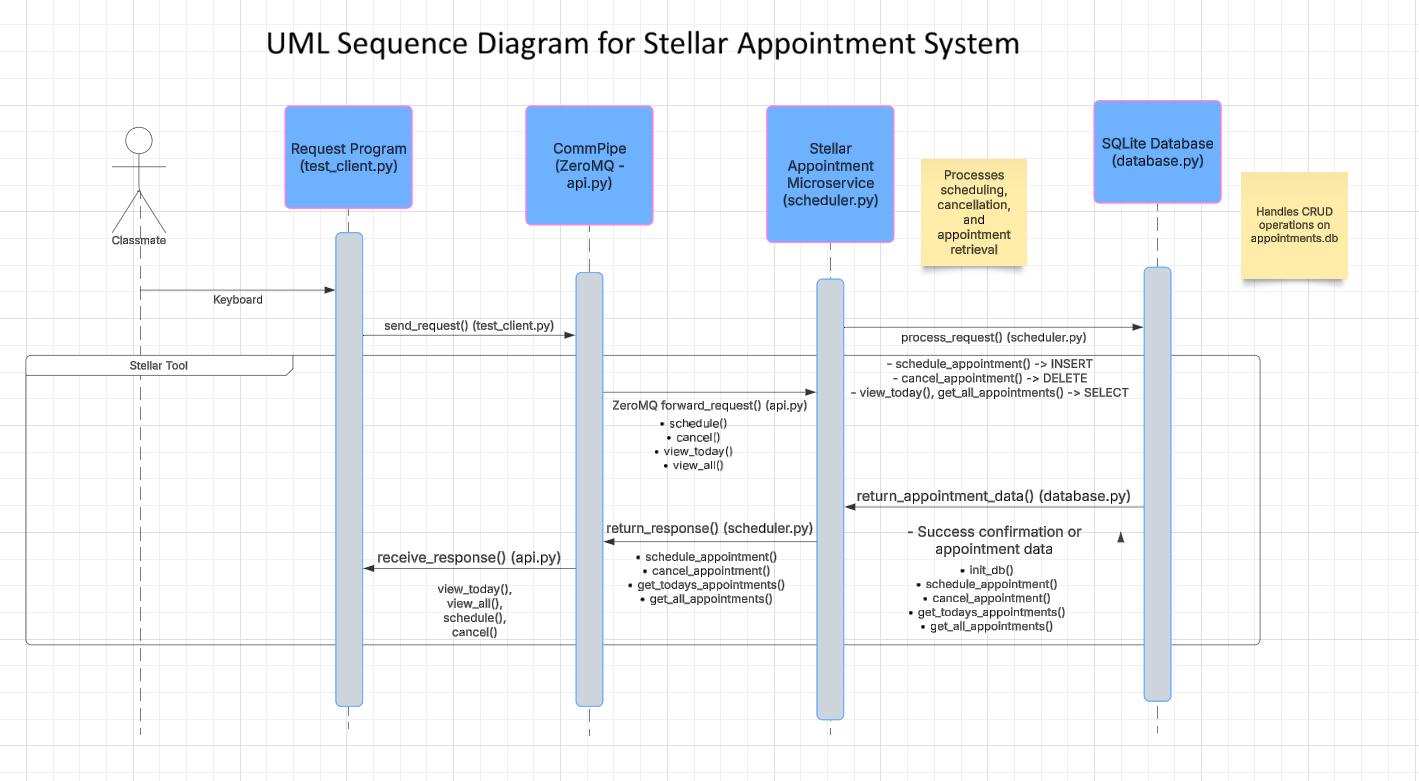
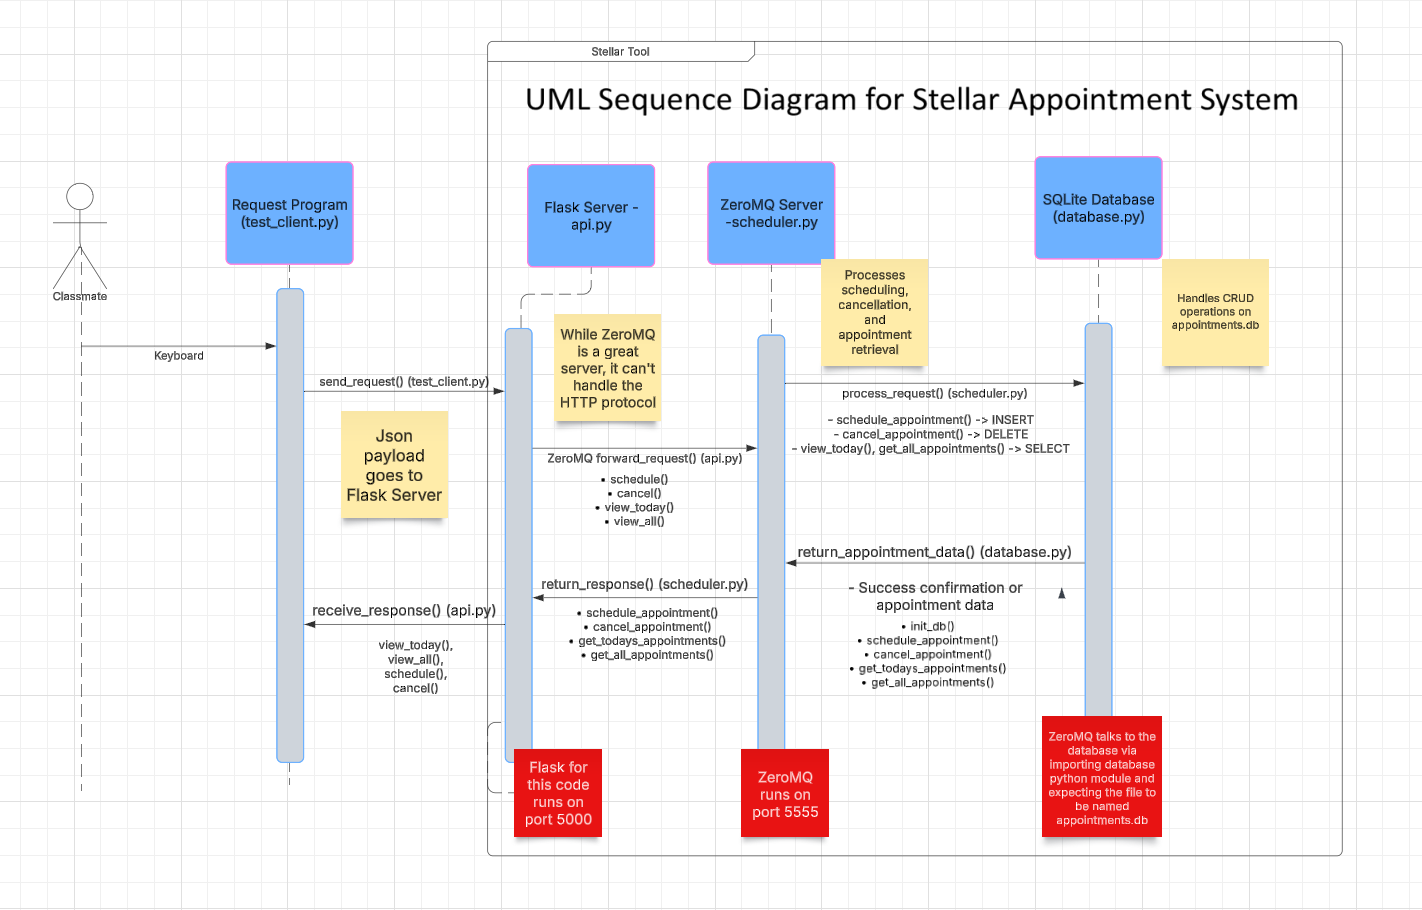
updated UML and commented a flow through program for video

diff --git a/test_client.py b/test_client.py
@@ -35,6 +35,8 @@ def schedule_appointment(patient, date, time):
         "date": date,
         "time": time
     }
+    # CALL OUT!!!
+    # 01 - Send a POST request to the Flask API with appointment details
     response = requests.post(f"{BASE_URL}/schedule", json=payload)
     return response.json()
 
@@ -77,7 +79,12 @@ def view_all_appointments():
 if __name__ == "__main__":
     # Demonstrate scheduling an appointment
     print("Scheduling an appointment for John Doe on 2025-02-25 at 10:00 AM")
+    # CALL OUT!!!
+    # 00 - Declare a variable and call a function to schedule appointment 
+    # You will build something like this in your code base!
     scheduled_response = schedule_appointment("John Doe", "2025-02-25", "10:00")
+    # CALL OUT!!!
+    # 07 - Display the response received from the API to confirm success
     pretty_print(scheduled_response)
 
     # Demonstrate viewing today's appointments

diff --git a/scheduler.py b/scheduler.py
@@ -40,6 +40,8 @@ while True:
         patient = request.get("patient")
         date = request.get("date")
         time = request.get("time")
+        # CALL OUT!!!
+        # 03 - Call the database function to schedule a new appointment
         appointment_id = database.schedule_appointment(patient, date, time)
         response = {"status": "success", "appointment_id": appointment_id}
     elif action == "cancel":
@@ -85,5 +87,6 @@ while True:
         """
         response = {"status": "error", "message": "Invalid action."}
 
-    # Send the response back to the client
+    # CALL OUT!!!
+    # 05 - Send the processed response back to api.py through ZeroMQ
     socket.send_string(json.dumps(response))

diff --git a/api.py b/api.py
@@ -41,7 +41,12 @@ def schedule():
         "date": data['date'],
         "time": data['time']
     }
+    # CALL OUT!!!
+    # 02 - Send the request data to the scheduler microservice using ZeroMQ
     socket.send_string(json.dumps(request_data))
+    
+    # CALL OUT!!!
+    # 06 - Receive the response from scheduler.py and send it back as JSON
     response = json.loads(socket.recv_string())
     return jsonify(response)
 

diff --git a/database.py b/database.py
@@ -39,6 +39,8 @@ def schedule_appointment(patient, date, time):
     """
     conn = sqlite3.connect('appointments.db')
     c = conn.cursor()
+    # CALL OUT!!!
+    # 04 - Insert a new appointment into the SQLite database
     c.execute('INSERT INTO appointments (patient, date, time) VALUES (?, ?, ?)', (patient, date, time))
     appointment_id = c.lastrowid
     conn.commit()
